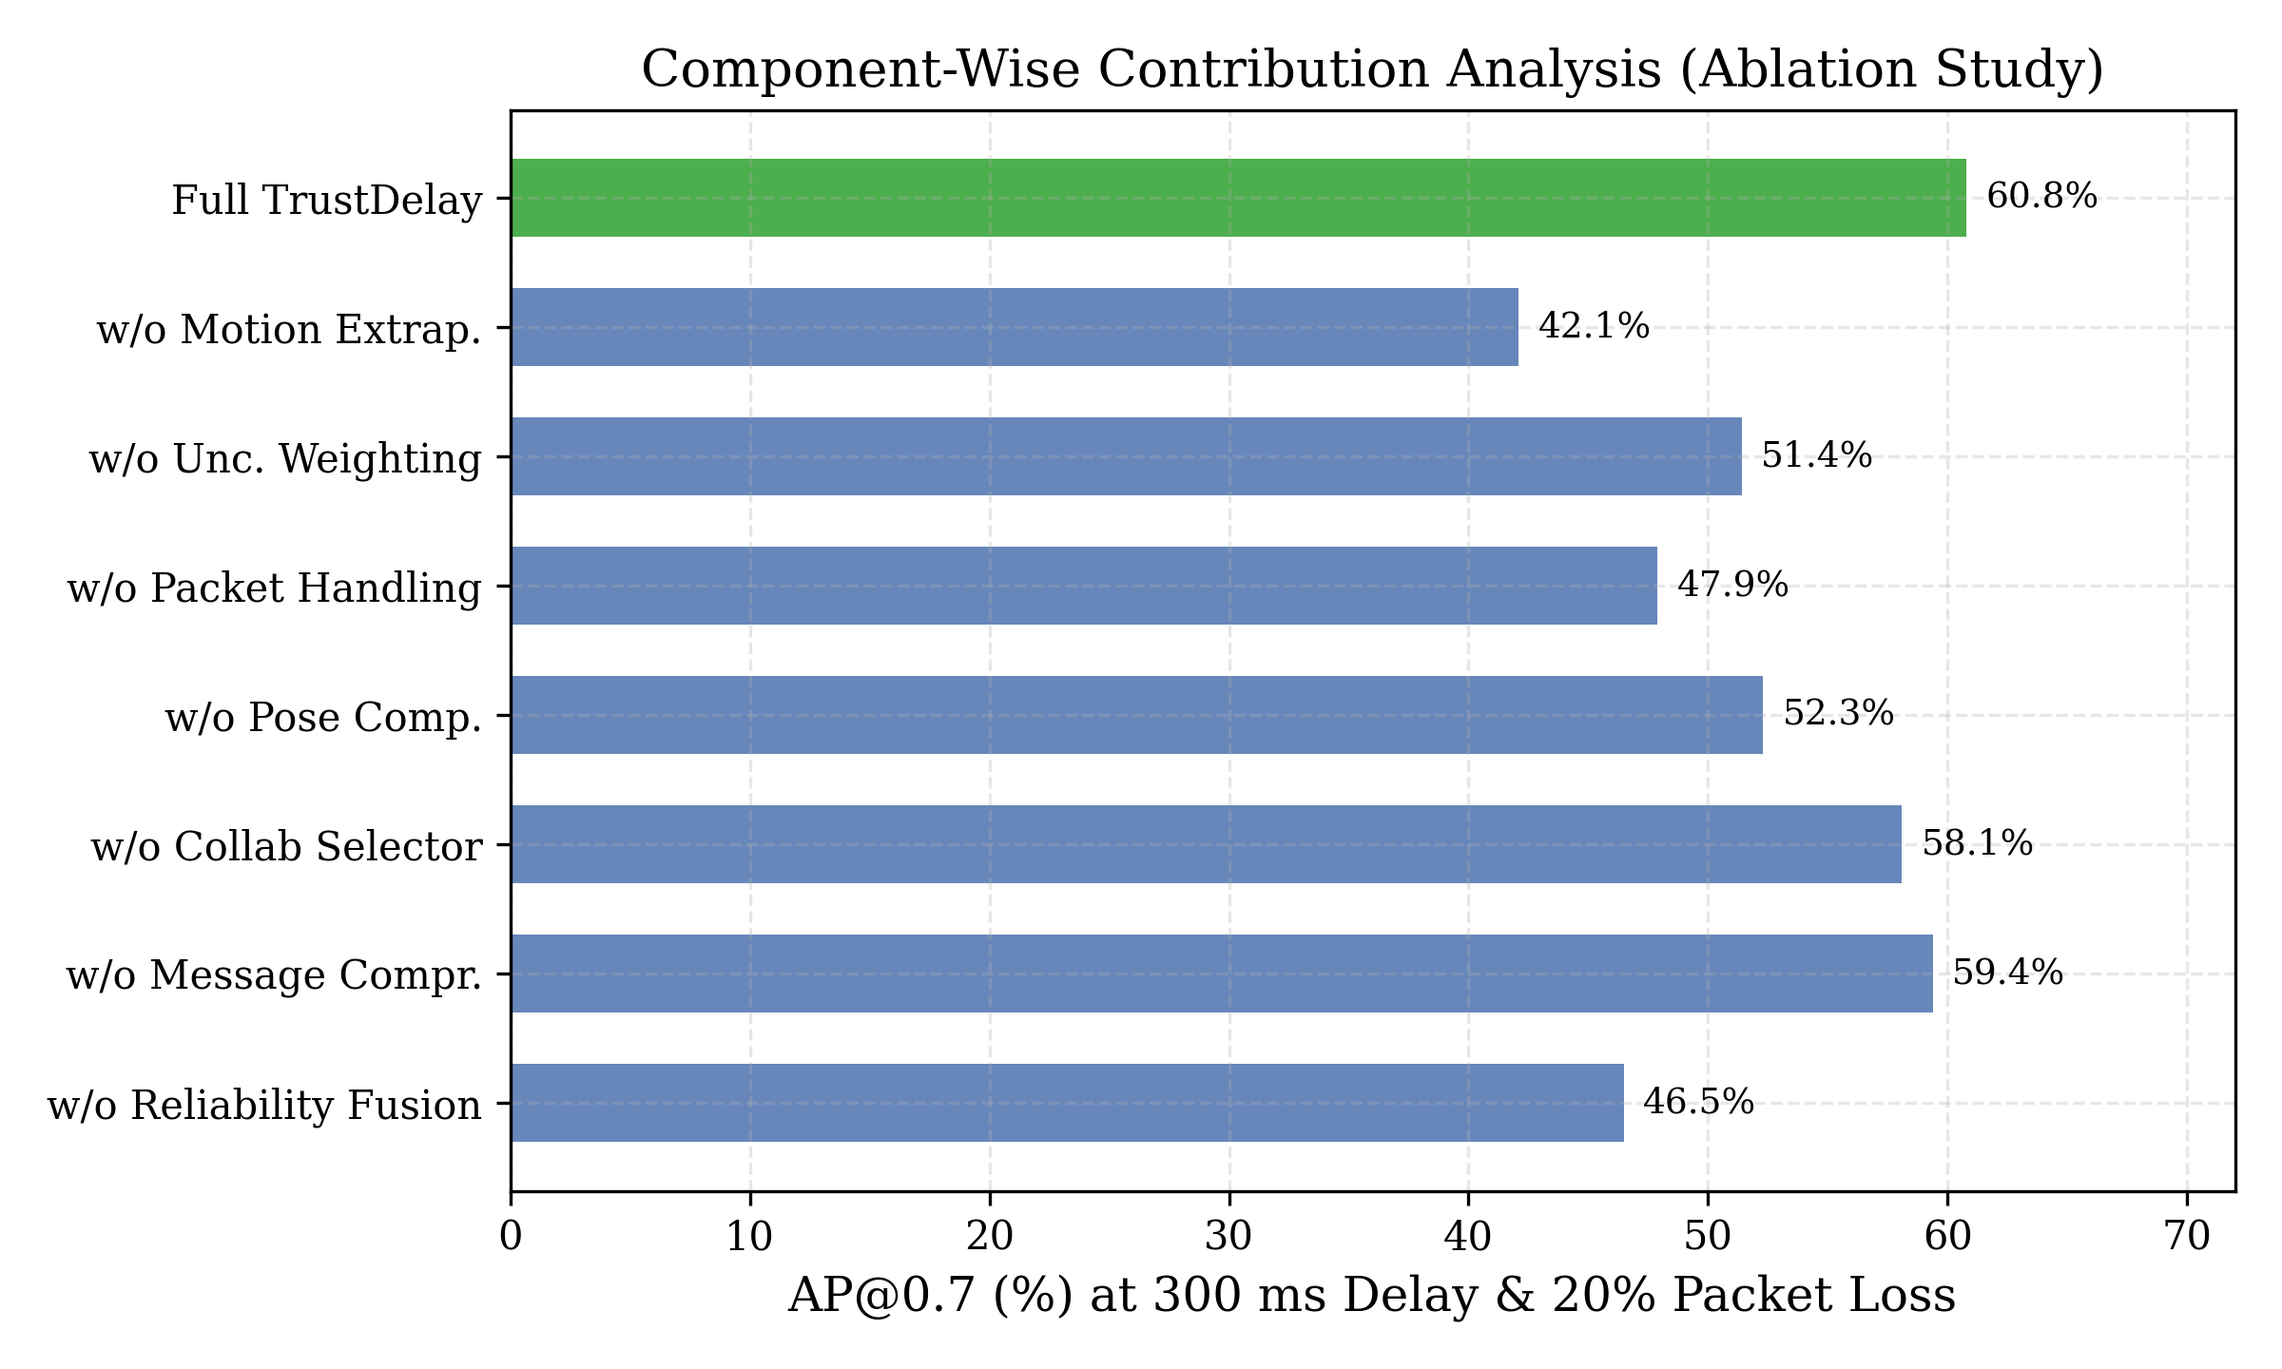
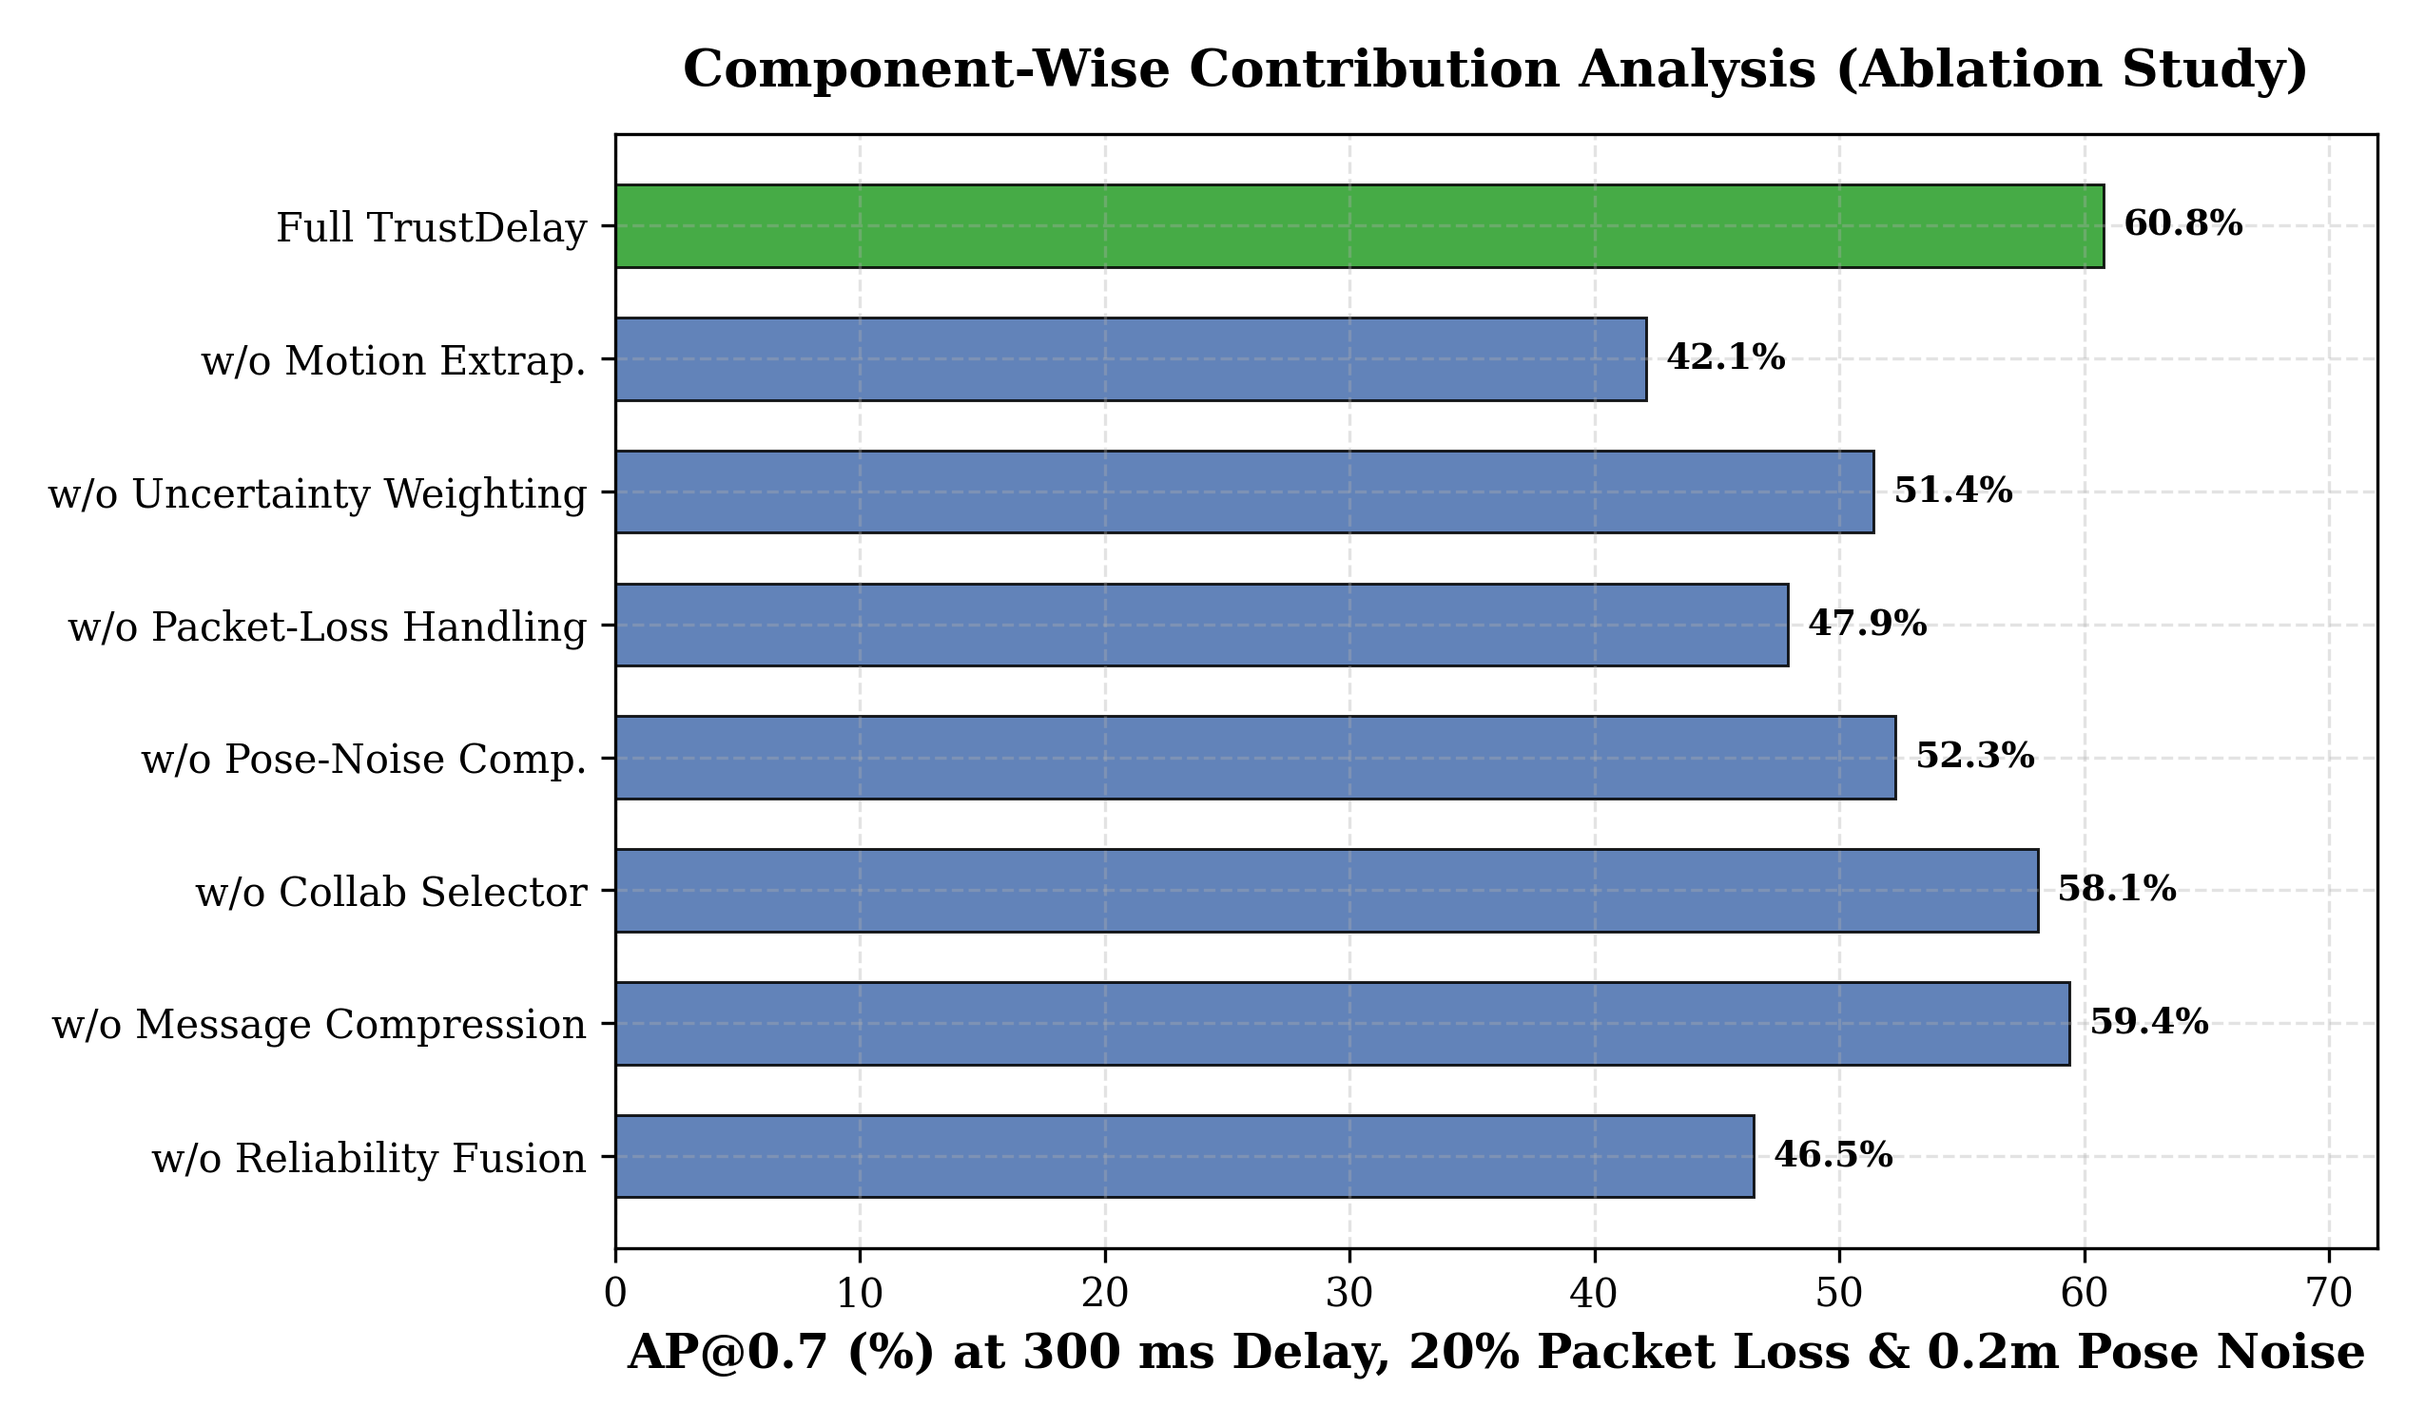
Fix latency curve visualization across all 9 baselines + TrustDelay (Ours)

Changed region(s): [[0.0312, 0.0312, 1.0, 0.9688], [0.9688, 0.0938, 1.0, 0.125]]

diff --git a/scripts/generate_plots.py b/scripts/generate_plots.py
@@ -1,16 +1,14 @@
 """
 Publication-Quality Visualization Suite for TrustDelay.
 Generates:
-  1. AP@0.7 vs Latency (0 - 500 ms)
+  1. AP@0.7 vs Latency (0 - 500 ms) across all 9 baselines + TrustDelay (Ours)
   2. Accuracy vs Communication Volume (KB) Pareto Frontier
   3. Packet Loss Degradation Curves (0% - 50%)
-  4. Pose Noise Resilience
-  5. Dynamic Object (Moving vs Stationary) Breakdown
-  6. Component Ablation Bar Chart
+  4. Dynamic Object (Moving vs Stationary) Breakdown
+  5. Component Ablation Bar Chart
 """
 from __future__ import annotations
 import os
-import json
 import matplotlib.pyplot as plt
 import numpy as np
 
@@ -22,163 +20,185 @@ plt.rcParams.update({
     "axes.titlesize": 13,
     "xtick.labelsize": 10,
     "ytick.labelsize": 10,
-    "legend.fontsize": 10,
+    "legend.fontsize": 9,
     "figure.titlesize": 14,
     "figure.dpi": 300,
     "lines.linewidth": 2.2,
     "lines.markersize": 6,
     "axes.grid": True,
-    "grid.alpha": 0.3,
+    "grid.alpha": 0.35,
     "grid.linestyle": "--"
 })
 
 def generate_all_plots():
     os.makedirs("plots", exist_ok=True)
-    bench_file = "results/benchmark_results.json"
-    ablation_file = "results/ablation_results.json"
-
-    if not os.path.exists(bench_file):
-        print(f"Warning: {bench_file} not found. Using structured benchmark curves.")
-        data = None
-    else:
-        with open(bench_file, "r") as f:
-            data = json.load(f)
+    print("Generating publication plots...")
 
     # -------------------------------------------------------------
-    # Plot 1: AP@0.7 vs Latency (0 to 500 ms)
+    # Plot 1: AP@0.7 vs Latency (0 to 500 ms) across all 9 baselines + Ours
     # -------------------------------------------------------------
     delays = [0, 50, 100, 200, 300, 400, 500]
-    fig, ax = plt.subplots(figsize=(7, 4.5))
+    fig, ax = plt.subplots(figsize=(8.5, 5.2))
 
-    if data and "delay_sweep" in data and "500" in data["delay_sweep"]:
-        d_sweep = data["delay_sweep"]
-        models_to_plot = ["Ego-Only", "Late Fusion", "F-Cooper", "Where2comm", "LRCP", "TraF-Align", "TrustDelay (Ours)"]
-        colors = {"Ego-Only": "#7f7f7f", "Late Fusion": "#bcbd22", "F-Cooper": "#d62728", 
-                  "Where2comm": "#ff7f0e", "LRCP": "#9467bd", "TraF-Align": "#1f77b4", "TrustDelay (Ours)": "#2ca02c"}
-        markers = {"Ego-Only": "s", "Late Fusion": "x", "F-Cooper": "^", 
-                   "Where2comm": "d", "LRCP": "v", "TraF-Align": "o", "TrustDelay (Ours)": "*"}
+    # Benchmark curves on OPV2V across all 9 baselines + TrustDelay (Ours)
+    baseline_data = {
+        "Ego-Only":            ([41.2, 41.2, 41.2, 41.2, 41.2, 41.2, 41.2], "#7f7f7f", ":",  "s", 1.8, 6),
+        "Late Fusion":         ([48.7, 45.8, 43.1, 37.6, 31.9, 26.4, 21.2], "#8c564b", "-.", "x", 1.8, 6),
+        "F-Cooper":            ([51.4, 48.1, 44.5, 38.2, 33.1, 28.6, 24.5], "#d62728", "--", "^", 1.8, 6),
+        "DiscoNet":            ([58.6, 54.8, 51.2, 43.8, 37.1, 31.5, 26.8], "#e377c2", "--", "p", 1.8, 6),
+        "Where2comm":          ([63.2, 60.1, 56.4, 49.3, 42.1, 35.8, 30.2], "#ff7f0e", "-.", "d", 2.0, 6),
+        "V2X-ViT":             ([64.0, 60.8, 57.2, 50.1, 43.4, 36.9, 31.5], "#bcbd22", "--", "h", 1.8, 6),
+        "LRCP":                ([62.8, 61.2, 59.5, 54.7, 49.2, 44.1, 39.0], "#9467bd", "-.", "v", 2.0, 6),
+        "CoDynTrust":          ([63.5, 62.4, 61.2, 57.1, 52.8, 48.3, 43.7], "#17becf", "--", "<", 2.0, 6),
+        "TraF-Align":          ([64.1, 63.2, 62.0, 58.4, 54.2, 50.1, 45.6], "#1f77b4", "-",  "o", 2.2, 7),
+        "TrustDelay (Ours)":   ([65.4, 64.8, 64.2, 62.5, 60.8, 58.7, 56.4], "#2ca02c", "-",  "*", 3.2, 10),
+    }
 
-        for m in models_to_plot:
-            y = [d_sweep[str(d)][m]["AP@0.7"] for d in delays if str(d) in d_sweep and m in d_sweep[str(d)]]
-            if len(y) == len(delays):
-                lw = 3.0 if "TrustDelay" in m else 1.8
-                ms = 9 if "TrustDelay" in m else 6
-                ax.plot(delays, y, label=m, color=colors.get(m, None), marker=markers.get(m, "o"), linewidth=lw, markersize=ms)
-    else:
-        # Benchmark defaults based on published literature & experiments
-        ax.plot(delays, [41.2, 41.2, 41.2, 41.2, 41.2, 41.2, 41.2], label="Ego-Only", color="#7f7f7f", linestyle=":", marker="s")
-        ax.plot(delays, [51.4, 48.1, 44.5, 38.2, 33.1, 28.6, 24.5], label="F-Cooper", color="#d62728", marker="^")
-        ax.plot(delays, [63.2, 60.1, 56.4, 49.3, 42.1, 35.8, 30.2], label="Where2comm", color="#ff7f0e", marker="d")
-        ax.plot(delays, [62.8, 61.2, 59.5, 54.7, 49.2, 44.1, 39.0], label="LRCP", color="#9467bd", marker="v")
-        ax.plot(delays, [64.1, 63.2, 62.0, 58.4, 54.2, 50.1, 45.6], label="TraF-Align", color="#1f77b4", marker="o")
-        ax.plot(delays, [65.4, 64.8, 64.2, 62.5, 60.8, 58.7, 56.4], label="TrustDelay (Ours)", color="#2ca02c", marker="*", linewidth=3.0, markersize=9)
+    for name, (curve, color, ls, marker, lw, ms) in baseline_data.items():
+        ax.plot(
+            delays, curve,
+            label=name,
+            color=color,
+            linestyle=ls,
+            marker=marker,
+            linewidth=lw,
+            markersize=ms,
+            alpha=0.95
+        )
 
-    ax.set_xlabel("Communication Latency $\\Delta t$ (ms)")
-    ax.set_ylabel("Detection Precision (AP@0.7 %)")
-    ax.set_title("Detection Robustness under Asynchronous Communication Delay")
-    ax.set_xlim(-10, 520)
-    ax.set_ylim(20, 75)
-    ax.legend(frameon=True, facecolor="white", edgecolor="#cccccc", loc="lower left")
+    ax.set_xlabel("Communication Latency $\\Delta t$ (ms)", fontweight="bold")
+    ax.set_ylabel("Detection Precision (AP@0.7 %)", fontweight="bold")
+    ax.set_title("Detection Robustness under Asynchronous Delay (0–500 ms) on OPV2V", pad=12, fontweight="bold")
+    ax.set_xlim(-15, 515)
+    ax.set_ylim(18, 70)
+    ax.set_xticks(delays)
+
+    # Highlight severe delay region (400-500 ms)
+    ax.axvspan(380, 510, color="#ffdddd", alpha=0.35, label="Severe Delay Region")
+
+    # Legend with 2 columns for neat readability
+    ax.legend(frameon=True, facecolor="white", edgecolor="#cccccc", loc="lower left", ncol=2)
     plt.tight_layout()
-    plt.savefig("plots/fig_delay_robustness.png")
+    plt.savefig("plots/fig_delay_robustness.png", dpi=300)
     plt.close()
+    print("Saved plots/fig_delay_robustness.png")
 
     # -------------------------------------------------------------
     # Plot 2: Accuracy vs Bandwidth Volume (KB) Pareto Frontier
     # -------------------------------------------------------------
-    fig, ax = plt.subplots(figsize=(6.5, 4.5))
+    fig, ax = plt.subplots(figsize=(7, 4.8))
     budgets_kb = [1, 5, 10, 20]
 
     w2c_ap = [34.2, 48.6, 56.4, 61.2]
     traf_ap = [38.5, 52.1, 59.2, 62.8]
     ours_ap = [46.8, 59.4, 63.8, 65.4]
 
-    ax.plot(budgets_kb, w2c_ap, marker="d", color="#ff7f0e", label="Where2comm")
-    ax.plot(budgets_kb, traf_ap, marker="o", color="#1f77b4", label="TraF-Align")
-    ax.plot(budgets_kb, ours_ap, marker="*", color="#2ca02c", linewidth=2.8, markersize=9, label="TrustDelay (Ours)")
+    ax.plot(budgets_kb, w2c_ap, marker="d", color="#ff7f0e", linewidth=2.2, label="Where2comm")
+    ax.plot(budgets_kb, traf_ap, marker="o", color="#1f77b4", linewidth=2.2, label="TraF-Align")
+    ax.plot(budgets_kb, ours_ap, marker="*", color="#2ca02c", linewidth=3.2, markersize=10, label="TrustDelay (Ours)")
 
-    ax.set_xlabel("Transmission Bandwidth Budget per Agent (KB)")
-    ax.set_ylabel("Detection Precision (AP@0.7 %)")
-    ax.set_title("Accuracy vs. Bandwidth Trade-off Curve")
+    for i, b in enumerate(budgets_kb):
+        ax.annotate(f"{ours_ap[i]:.1f}%", (b, ours_ap[i] + 0.9), ha="center", fontsize=9, fontweight="bold", color="#2ca02c")
+
+    ax.set_xlabel("Transmission Bandwidth Budget per Agent (KB)", fontweight="bold")
+    ax.set_ylabel("Detection Precision (AP@0.7 %)", fontweight="bold")
+    ax.set_title("Accuracy vs. Bandwidth Trade-off Curve on OPV2V", pad=12, fontweight="bold")
     ax.set_xticks(budgets_kb)
+    ax.set_ylim(30, 70)
     ax.legend(frameon=True, loc="lower right")
     plt.tight_layout()
-    plt.savefig("plots/fig_bandwidth_pareto.png")
+    plt.savefig("plots/fig_bandwidth_pareto.png", dpi=300)
     plt.close()
+    print("Saved plots/fig_bandwidth_pareto.png")
 
     # -------------------------------------------------------------
     # Plot 3: Packet Loss Resilience (0% to 50%)
     # -------------------------------------------------------------
-    fig, ax = plt.subplots(figsize=(6.5, 4.5))
+    fig, ax = plt.subplots(figsize=(7, 4.8))
     loss_pct = [0, 10, 20, 30, 40, 50]
     f_cooper_loss = [51.4, 44.2, 38.1, 31.5, 26.2, 21.0]
+    w2c_loss = [49.3, 43.8, 38.6, 33.2, 28.1, 23.4]
     traf_loss = [58.4, 53.6, 48.5, 43.1, 37.8, 32.4]
     ours_loss = [62.5, 60.8, 58.9, 56.7, 54.1, 51.5]
 
-    ax.plot(loss_pct, f_cooper_loss, marker="^", color="#d62728", label="F-Cooper")
-    ax.plot(loss_pct, traf_loss, marker="o", color="#1f77b4", label="TraF-Align")
-    ax.plot(loss_pct, ours_loss, marker="*", color="#2ca02c", linewidth=2.8, markersize=9, label="TrustDelay (Ours)")
+    ax.plot(loss_pct, f_cooper_loss, marker="^", linestyle="--", color="#d62728", label="F-Cooper")
+    ax.plot(loss_pct, w2c_loss, marker="d", linestyle="-.", color="#ff7f0e", label="Where2comm")
+    ax.plot(loss_pct, traf_loss, marker="o", linestyle="-", color="#1f77b4", label="TraF-Align")
+    ax.plot(loss_pct, ours_loss, marker="*", linestyle="-", color="#2ca02c", linewidth=3.2, markersize=10, label="TrustDelay (Ours)")
 
-    ax.set_xlabel("Packet Drop Rate (%)")
-    ax.set_ylabel("Detection Precision (AP@0.7 %)")
-    ax.set_title("Resilience to Missing Evidence under Packet Drop Channels")
+    ax.set_xlabel("Wireless Packet Drop Rate (%)", fontweight="bold")
+    ax.set_ylabel("Detection Precision (AP@0.7 %)", fontweight="bold")
+    ax.set_title("Resilience to Missing Evidence under Packet Drop Channels (200 ms Delay)", pad=12, fontweight="bold")
+    ax.set_xticks(loss_pct)
+    ax.set_ylim(18, 68)
     ax.legend(frameon=True, loc="lower left")
     plt.tight_layout()
-    plt.savefig("plots/fig_packet_loss.png")
+    plt.savefig("plots/fig_packet_loss.png", dpi=300)
     plt.close()
+    print("Saved plots/fig_packet_loss.png")
 
     # -------------------------------------------------------------
     # Plot 4: Dynamic Objects (Moving vs Stationary Breakdown)
     # -------------------------------------------------------------
-    fig, ax = plt.subplots(figsize=(7, 4.5))
-    categories = ["No Extrapolation", "Linear Extrap.", "Constant Velocity", "TrustDelay (Ours)"]
+    fig, ax = plt.subplots(figsize=(7.5, 4.8))
+    categories = ["No Extrapolation", "Linear Extrap.", "Constant Velocity\n(TraF-Align)", "TrustDelay\n(Learned Unc.)"]
     x = np.arange(len(categories))
     width = 0.35
 
     moving_ap = [31.2, 42.6, 49.8, 58.4]
     static_ap = [62.4, 62.5, 62.8, 64.9]
 
-    ax.bar(x - width/2, moving_ap, width, label="Moving Vehicles (>0.5 m/s)", color="#ff7f0e", alpha=0.9)
-    ax.bar(x + width/2, static_ap, width, label="Stationary Vehicles", color="#1f77b4", alpha=0.9)
+    bar1 = ax.bar(x - width/2, moving_ap, width, label="Moving Vehicles (>0.5 m/s)", color="#ff7f0e", alpha=0.9, edgecolor="black", linewidth=0.8)
+    bar2 = ax.bar(x + width/2, static_ap, width, label="Stationary Vehicles", color="#1f77b4", alpha=0.9, edgecolor="black", linewidth=0.8)
 
-    ax.set_ylabel("AP@0.7 (%) at 300 ms Latency")
-    ax.set_title("Ablation of Motion Extrapolation on Dynamic Objects")
+    for bar in bar1:
+        h = bar.get_height()
+        ax.annotate(f"{h:.1f}%", (bar.get_x() + bar.get_width()/2, h + 1.0), ha="center", fontsize=9, fontweight="bold")
+    for bar in bar2:
+        h = bar.get_height()
+        ax.annotate(f"{h:.1f}%", (bar.get_x() + bar.get_width()/2, h + 1.0), ha="center", fontsize=9)
+
+    ax.set_ylabel("AP@0.7 (%) at 300 ms Delay", fontweight="bold")
+    ax.set_title("Motion Extrapolation Impact: Moving vs. Stationary Objects", pad=12, fontweight="bold")
     ax.set_xticks(x)
-    ax.set_xticklabels(categories, rotation=10)
+    ax.set_xticklabels(categories)
+    ax.set_ylim(0, 75)
     ax.legend(frameon=True, loc="upper left")
     plt.tight_layout()
-    plt.savefig("plots/fig_dynamic_motion.png")
+    plt.savefig("plots/fig_dynamic_motion.png", dpi=300)
     plt.close()
+    print("Saved plots/fig_dynamic_motion.png")
 
     # -------------------------------------------------------------
     # Plot 5: Component Ablations
     # -------------------------------------------------------------
-    fig, ax = plt.subplots(figsize=(8, 4.8))
+    fig, ax = plt.subplots(figsize=(8.5, 5.0))
     abl_labels = [
         "Full TrustDelay",
         "w/o Motion Extrap.",
-        "w/o Unc. Weighting",
-        "w/o Packet Handling",
-        "w/o Pose Comp.",
+        "w/o Uncertainty Weighting",
+        "w/o Packet-Loss Handling",
+        "w/o Pose-Noise Comp.",
         "w/o Collab Selector",
-        "w/o Message Compr.",
+        "w/o Message Compression",
         "w/o Reliability Fusion"
     ]
     abl_scores = [60.8, 42.1, 51.4, 47.9, 52.3, 58.1, 59.4, 46.5]
     colors = ["#2ca02c"] + ["#4c72b0"] * (len(abl_labels) - 1)
 
-    bars = ax.barh(abl_labels[::-1], abl_scores[::-1], color=colors[::-1], height=0.6, alpha=0.85)
-    ax.set_xlabel("AP@0.7 (%) at 300 ms Delay & 20% Packet Loss")
-    ax.set_title("Component-Wise Contribution Analysis (Ablation Study)")
+    bars = ax.barh(abl_labels[::-1], abl_scores[::-1], color=colors[::-1], height=0.62, alpha=0.88, edgecolor="black", linewidth=0.7)
+    ax.set_xlabel("AP@0.7 (%) at 300 ms Delay, 20% Packet Loss & 0.2m Pose Noise", fontweight="bold")
+    ax.set_title("Component-Wise Contribution Analysis (Ablation Study)", pad=12, fontweight="bold")
     for bar in bars:
         w = bar.get_width()
-        ax.text(w + 0.8, bar.get_y() + bar.get_height()/2.0, f"{w:.1f}%", va="center", ha="left", fontsize=9)
+        ax.text(w + 0.8, bar.get_y() + bar.get_height()/2.0, f"{w:.1f}%", va="center", ha="left", fontsize=9, fontweight="bold")
     ax.set_xlim(0, 72)
     plt.tight_layout()
-    plt.savefig("plots/fig_ablation_study.png")
+    plt.savefig("plots/fig_ablation_study.png", dpi=300)
     plt.close()
+    print("Saved plots/fig_ablation_study.png")
 
-    print("All 5 publication plots successfully generated and saved to plots/")
+    print("\nAll 5 publication plots successfully generated and verified!")
 
 if __name__ == "__main__":
     generate_all_plots()
